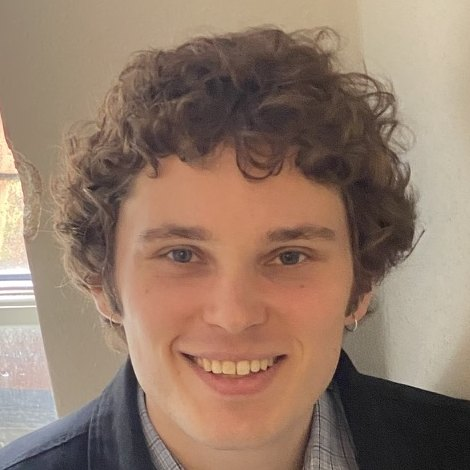
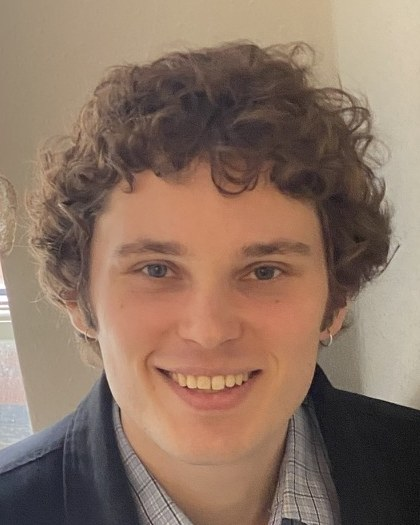
Refine colours and portrait, remove poster from CV

diff --git a/theme/style.css b/theme/style.css
@@ -1,21 +1,23 @@
 :root {
   color-scheme: light;
-  --bg: #fcfcfb;
-  --text: #2a2a28;
-  --muted: #71706b;
-  --line: #e2e1dc;
-  --panel: #f2f1ed;
+  --bg: #f8f6f0;
+  --text: #2e2c28;
+  --muted: #736f66;
+  --line: #e0dcd1;
+  --panel: #efece3;
+  --link: #2f5d8a;
   --mono: "IBM Plex Mono", ui-monospace, SFMono-Regular, Menlo, Consolas, monospace;
   --width: 640px;
 }
 
 :root[data-theme="dark"] {
   color-scheme: dark;
-  --bg: #1b1b1a;
-  --text: #c9c8c2;
-  --muted: #8d8c86;
-  --line: #333331;
-  --panel: #252523;
+  --bg: #1a1d21;
+  --text: #cfd2d6;
+  --muted: #8b9096;
+  --line: #2f343a;
+  --panel: #252a30;
+  --link: #8fb3d9;
 }
 
 * { box-sizing: border-box; }
@@ -35,8 +37,8 @@ body {
 ::selection { background: var(--line); }
 :focus-visible { outline: 1px solid var(--muted); outline-offset: 2px; }
 
-a { color: inherit; text-decoration: underline; text-decoration-color: var(--muted); text-decoration-thickness: 1px; text-underline-offset: 2px; }
-a:hover { text-decoration-color: currentColor; }
+a { color: var(--link); text-decoration: underline; text-decoration-thickness: 1px; text-underline-offset: 2px; }
+a:hover { text-decoration: none; }
 
 h1, h2, h3, h4, h5, h6 { font-size: inherit; font-weight: 600; line-height: 1.3; }
 
@@ -61,7 +63,7 @@ h1, h2, h3, h4, h5, h6 { font-size: inherit; font-weight: 600; line-height: 1.3;
   font: 13px var(--mono);
 }
 
-.logo { display: flex; align-items: center; gap: 8px; text-decoration: none; }
+.logo { display: flex; align-items: center; gap: 8px; color: inherit; text-decoration: none; }
 .logo:hover { text-decoration: underline; text-underline-offset: 2px; }
 .logo img { display: block; }
 .home .logo { visibility: hidden; }
@@ -100,6 +102,7 @@ main { flex: 1; padding-top: 12px; padding-bottom: 56px; }
   padding-bottom: 28px;
   color: var(--muted);
   font: 12px var(--mono);
+  text-align: center;
 }
 
 .meta { color: var(--muted); font: 12px/1.6 var(--mono); }
@@ -128,6 +131,7 @@ main { flex: 1; padding-top: 12px; padding-bottom: 56px; }
   gap: 16px;
   align-items: baseline;
   padding: 6px 0;
+  color: inherit;
   text-decoration: none;
 }
 
@@ -158,7 +162,7 @@ figure { margin: 24px 0; overflow-x: auto; }
 figure > img, figure > svg { margin: 0 auto; }
 figcaption { margin-top: 6px; color: var(--muted); font-size: 16px; text-align: center; }
 
-article img.portrait { float: right; width: 104px; height: 104px; margin: 0 0 10px 20px; }
+article img.portrait { float: right; width: 104px; margin: 0 0 10px 20px; }
 
 /* Plots and transparent images are drawn for a light page. */
 [data-theme="dark"] article img:not(.portrait), [data-theme="dark"] article svg { background: #fff; }
@@ -172,7 +176,7 @@ pre {
   margin: 0 0 14px;
   padding: 12px 14px;
   overflow-x: auto;
-  background: #f2f1ed;
+  background: #efece3;
   font-size: 18px;
   line-height: 1.5;
 }
@@ -180,7 +184,7 @@ pre {
 pre code { padding: 0; background: none; color: #2a2a28; }
 
 /* Typst hard-codes syntax colours for light backgrounds; this flips lightness but keeps hue. */
-[data-theme="dark"] pre { filter: invert(0.88) hue-rotate(180deg); }
+[data-theme="dark"] pre { background: #e2e6ec; filter: invert(0.88) hue-rotate(180deg); }
 
 table { display: block; max-width: 100%; margin: 16px 0; overflow-x: auto; border-collapse: collapse; }
 th, td { padding: 3px 16px 3px 0; border-bottom: 1px solid var(--line); text-align: left; }
@@ -195,5 +199,5 @@ th, td { padding: 3px 16px 3px 0; border-bottom: 1px solid var(--line); text-ali
   .hero { grid-template-columns: minmax(0, 1fr) 64px; gap: 16px; }
   .logo span { display: none; }
   .row { grid-template-columns: 1fr; gap: 0; }
-  article img.portrait { width: 84px; height: 84px; margin-left: 14px; }
+  article img.portrait { width: 84px; margin-left: 14px; }
 }

diff --git a/build.py b/build.py
@@ -108,8 +108,7 @@ def compile_html(slug, path, source, target):
 
 
 def nav_label(page):
-    stem = page["path"].stem
-    return stem.upper() if len(stem) <= 3 else stem.replace("-", " ").capitalize()
+    return page["path"].stem.replace("-", " ").lower()
 
 
 def theme_links(home):
@@ -181,7 +180,7 @@ def write_index(posts, pages):
         '<meta name="viewport" content="width=device-width, initial-scale=1">'
         f'<title>{SITE_NAME}</title>{theme_links("")}</head>'
         f'<body class="home">{site_header("./", pages)}{hero}<main>'
-        f'<h2 id="posts">Writing</h2>{"".join(rows)}</main>{site_footer()}</body></html>'
+        f'<h2 id="posts">writing</h2>{"".join(rows)}</main>{site_footer()}</body></html>'
     )
 
 
